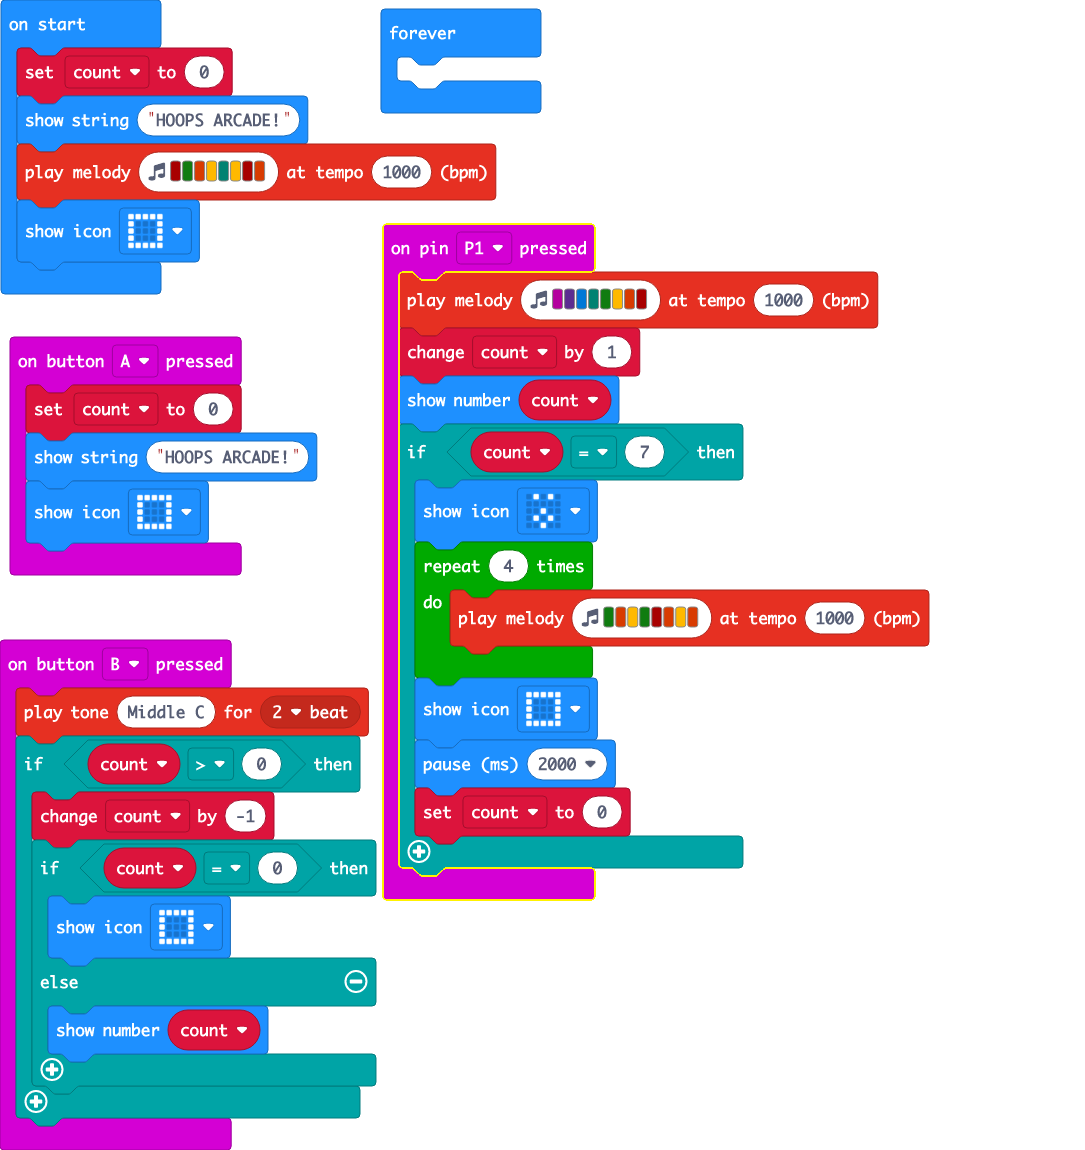
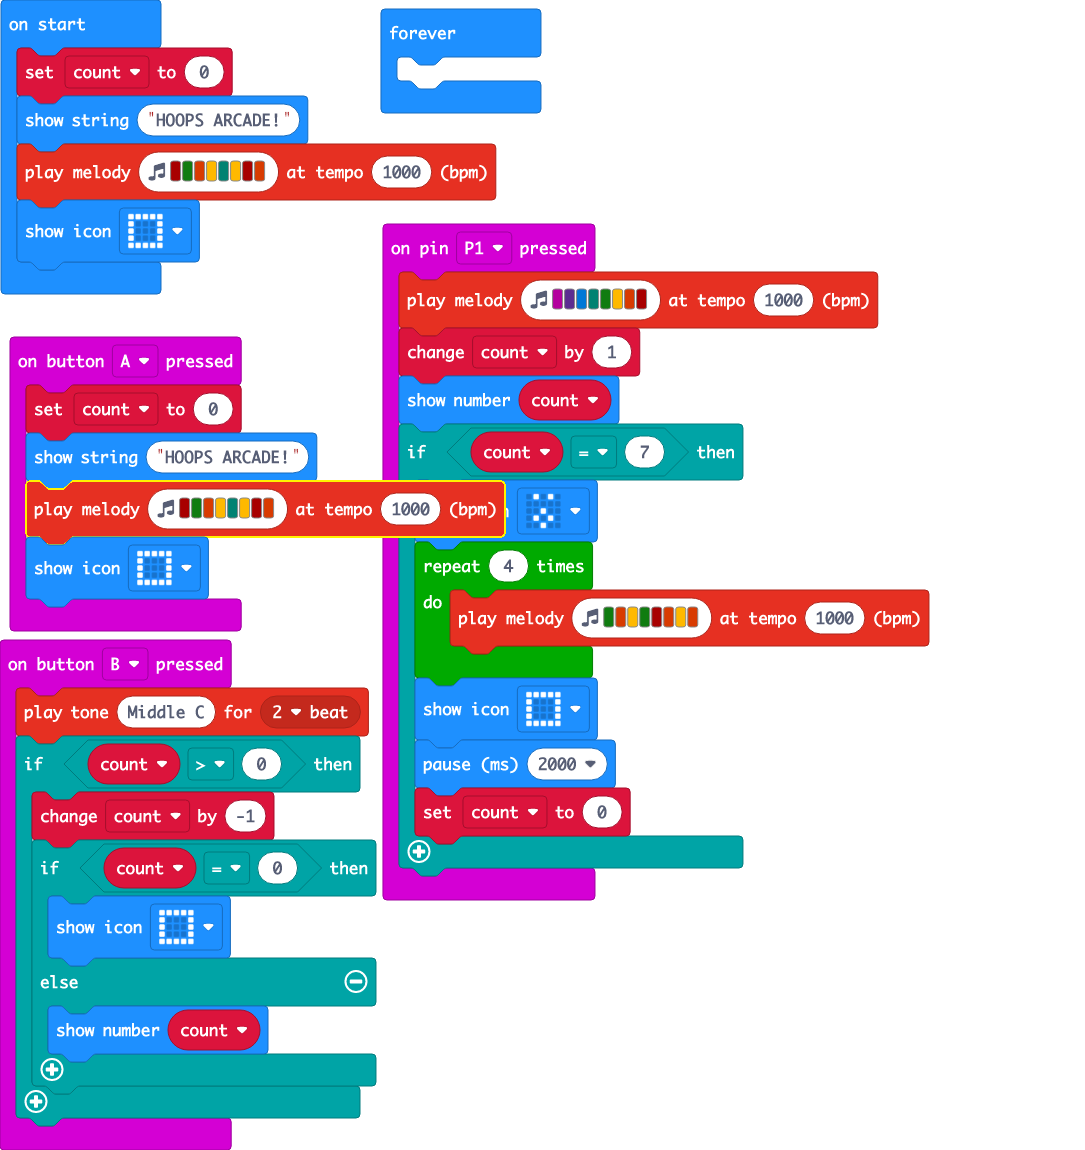
Added sound to button A pressed event

Changed region(s): [[0.0, 0.3957, 0.4866, 0.5478]]

diff --git a/main.ts b/main.ts
@@ -1,6 +1,7 @@
 input.onButtonPressed(Button.A, function () {
     count = 0
     basic.showString("HOOPS ARCADE!")
+    music.playMelody("C5 G B A F A C5 B ", 1000)
     basic.showIcon(IconNames.Square)
 })
 input.onButtonPressed(Button.B, function () {
